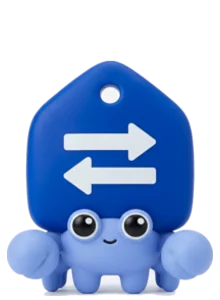
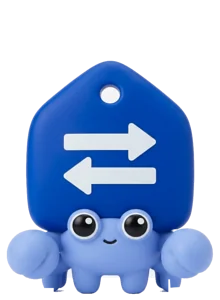
feat(brand): mascot Mượn cử động riêng càng, chân, mắt
- make_mascot.py cắt ảnh gốc thành càng, chân, thân; mép thân làm mềm
  để che đường nối, bỏ bóng đổ dưới chân
- idle chớp mắt, walk nhấc chân so le, shake nhắm mắt run, jump giơ càng
- Render lại các file webp trong public/brand

diff --git a/docs/brand/make_mascot.py b/docs/brand/make_mascot.py
@@ -25,11 +25,14 @@ def magick(*args):
 
 def cut_parts(d):
     """Tách ảnh gốc thành các lớp cùng khung 594x705."""
+    # bỏ bóng đổ dưới chân (xám, độ đậm màu thấp) để nhấc chân không kéo theo bóng
+    src = f'{d}/master.png'
+    magick(MASTER, '-channel', 'A', '-fx', 'j >= 650 && max(max(r,g),b) - min(min(r,g),b) < 0.15 ? 0 : a', '+channel', src)
     def keep(name, *rects, soft=False):
         draw = ' '.join(f'rectangle {x0},{y0} {x1},{y1}' for x0, y0, x1, y1 in rects)
         # soft: làm mềm mép dọc (kernel Blur 1 chiều ngang) để đường nối với càng hoà vào nhau
         blur = ['-channel', 'A', '-morphology', 'Convolve', 'Blur:0x6', '+channel'] if soft else []
-        magick(MASTER, '(', '-size', '594x705', 'xc:none', '-fill', 'white', '-draw', draw, *blur, ')',
+        magick(src, '(', '-size', '594x705', 'xc:none', '-fill', 'white', '-draw', draw, *blur, ')',
                '-compose', 'DstIn', '-composite', f'{d}/{name}.png')
 
     # đáy càng thò xuống ngang chân: lấy thêm phần ngoài cột chân
